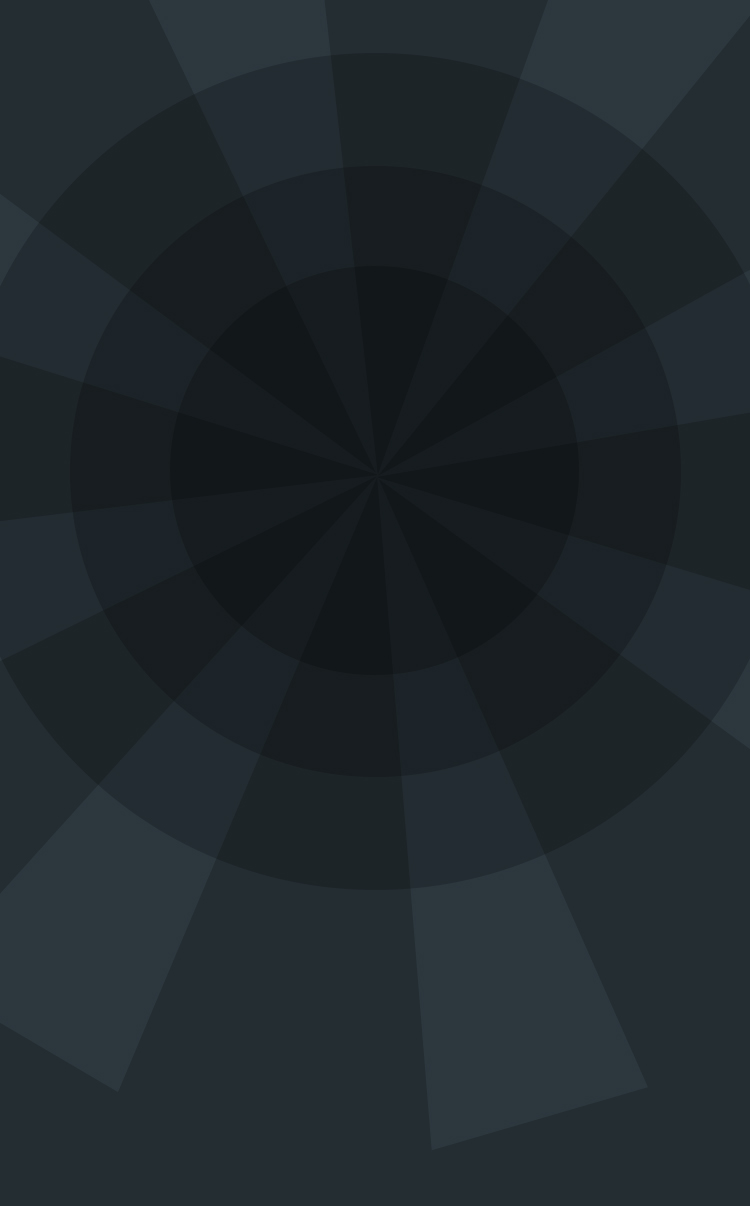
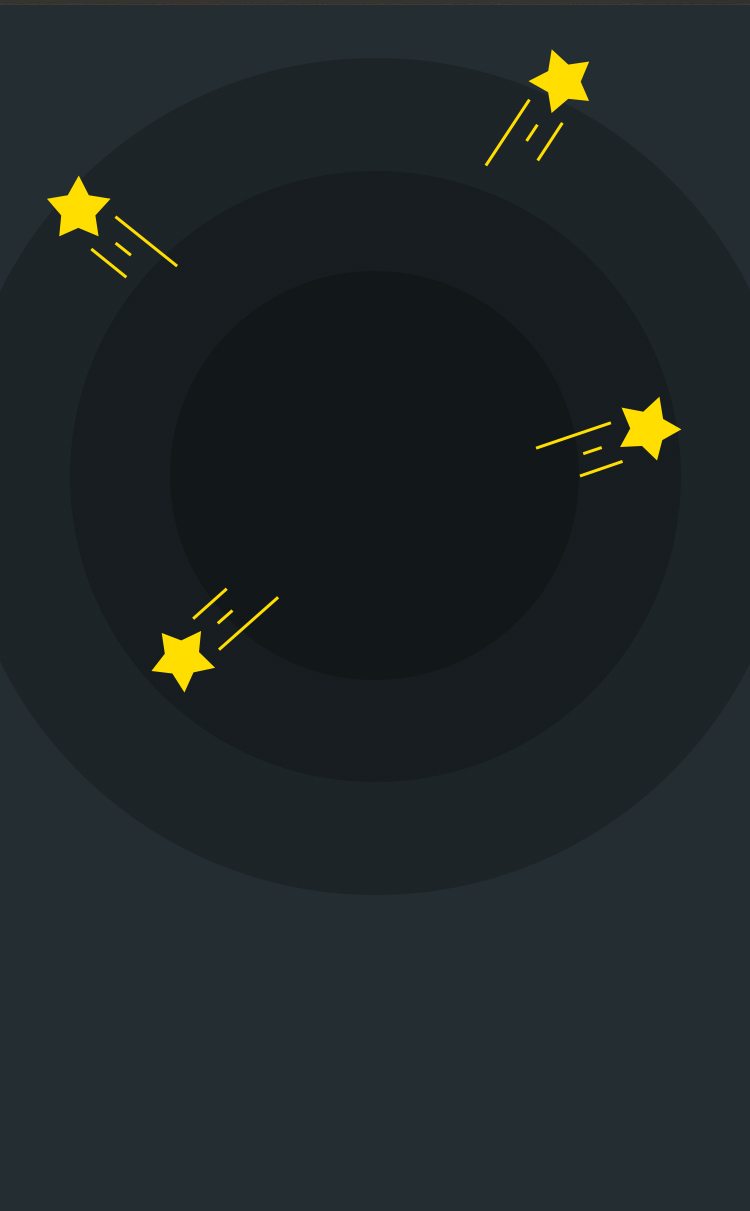
完善京东结果页面动画

diff --git a/templates/anniversary2.html b/templates/anniversary2.html
@@ -161,6 +161,12 @@
  	        <!-- 6京东 -->
 	        <div class="swiper-slide m1" id="p7">
 	        	<img class="jingdong-result" src="/static/css/anniversary2/result/jingdong/1.png">
+	        	<img class="jingdong-round rotate360 animated5" src="/static/css/anniversary2/result/jingdong/round.png">
+	        	<img class="jingdong-metro" src="/static/css/anniversary2/result/jingdong/p7.png">
+	        	<i class="icon6 white-star-big star-shink1" style="left:238px;top:70px"></i>
+	        	<i class="icon6 white-star-big star-shink2" style="left:518px;top:226px"></i>
+	        	<i class="icon6 white-star-big star-shink2" style="left:188px;top:390px"></i>
+	        	<i class="icon6 white-star-big star-shink1" style="left:500px;top:630px"></i>
 	        	<img class="result-cloud" src="/static/css/anniversary2/result/cloud.png">
 	        </div>
 	    </div>

diff --git a/static/css/anniversary2/layout.css b/static/css/anniversary2/layout.css
@@ -453,8 +453,8 @@ position: absolute;
 
 /*p7*/
 #p7{
-	background-image: url(bg/p7.jpg);
-	background-size: 100% auto;
+	/*background-image: url(bg/p7.jpg);*/
+	/*background-size: 100% auto;*/
 }
 .result-cloud{
 	position: absolute;
@@ -466,5 +466,19 @@ position: absolute;
 	top: 100px;
 	left: 70px;
 	z-index: 100;
+}
+.jingdong-round{
+  width: 1338px;
+  /* height: 1338px; */
+  position: absolute;
+  left: 50%;
+  top: -300px;
+  margin-left: -669px;
+}
+.jingdong-metro{
+	position: absolute;
+	width: 750px;
+	left: 0;
+	top: 0;
 }
 

diff --git a/static/css/anniversary2/icon.css b/static/css/anniversary2/icon.css
@@ -189,7 +189,6 @@
 }
 
 /*p6*/
-
 .i-jingdonghao{
 	width: 474px;
 	height: 324px;
@@ -235,4 +234,16 @@
 	width: 440px;
 	height: 460px;
 	background-position: -530px 0px;
+}
+
+/*p7*/
+.metro{
+	width: 120px;
+	height: 137px;
+	background-position: -396px -558px;
+}
+.white-star-big{
+	width: 70px;
+	height: 84px;
+	background-position: -416px -712px;
 }

diff --git a/static/css/anniversary2/animate.css b/static/css/anniversary2/animate.css
@@ -323,3 +323,17 @@
     -webkit-transform: scale(1)
   }
 }
+
+.rotate360{
+  -webkit-animation-name: rotate360;
+  -webkit-animation-iteration-count: infinite;
+  -webkit-animation-timing-function: linear;   
+}
+@-webkit-keyframes rotate360 {
+  0% {
+    -webkit-transform: rotate(0deg);
+  }
+  100% {
+    -webkit-transform: rotate(360deg);
+  } 
+}
